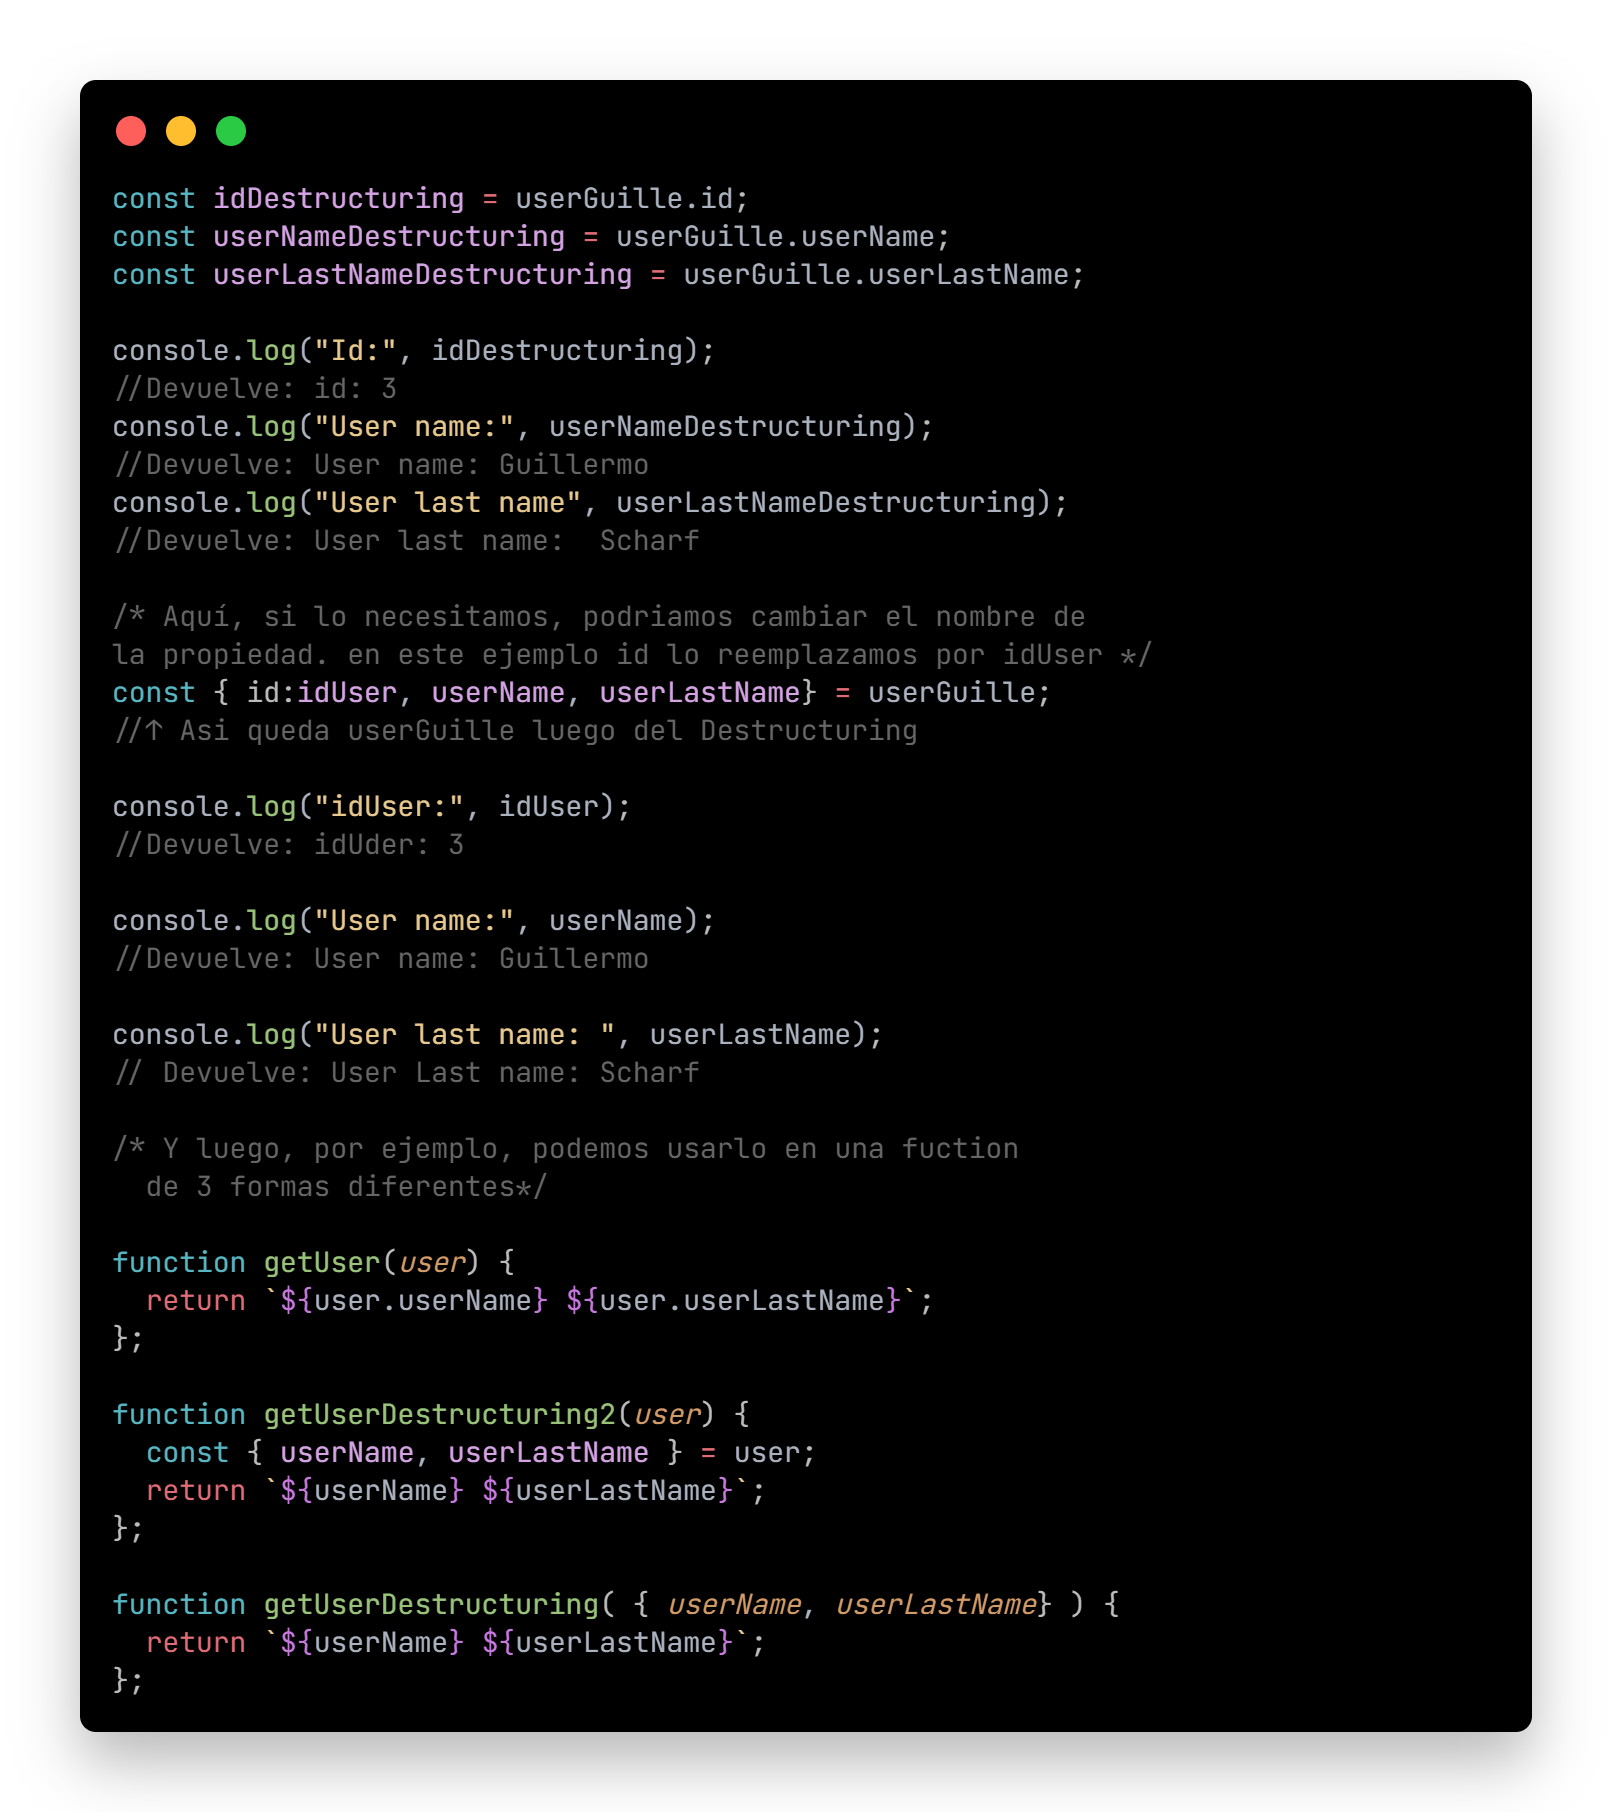
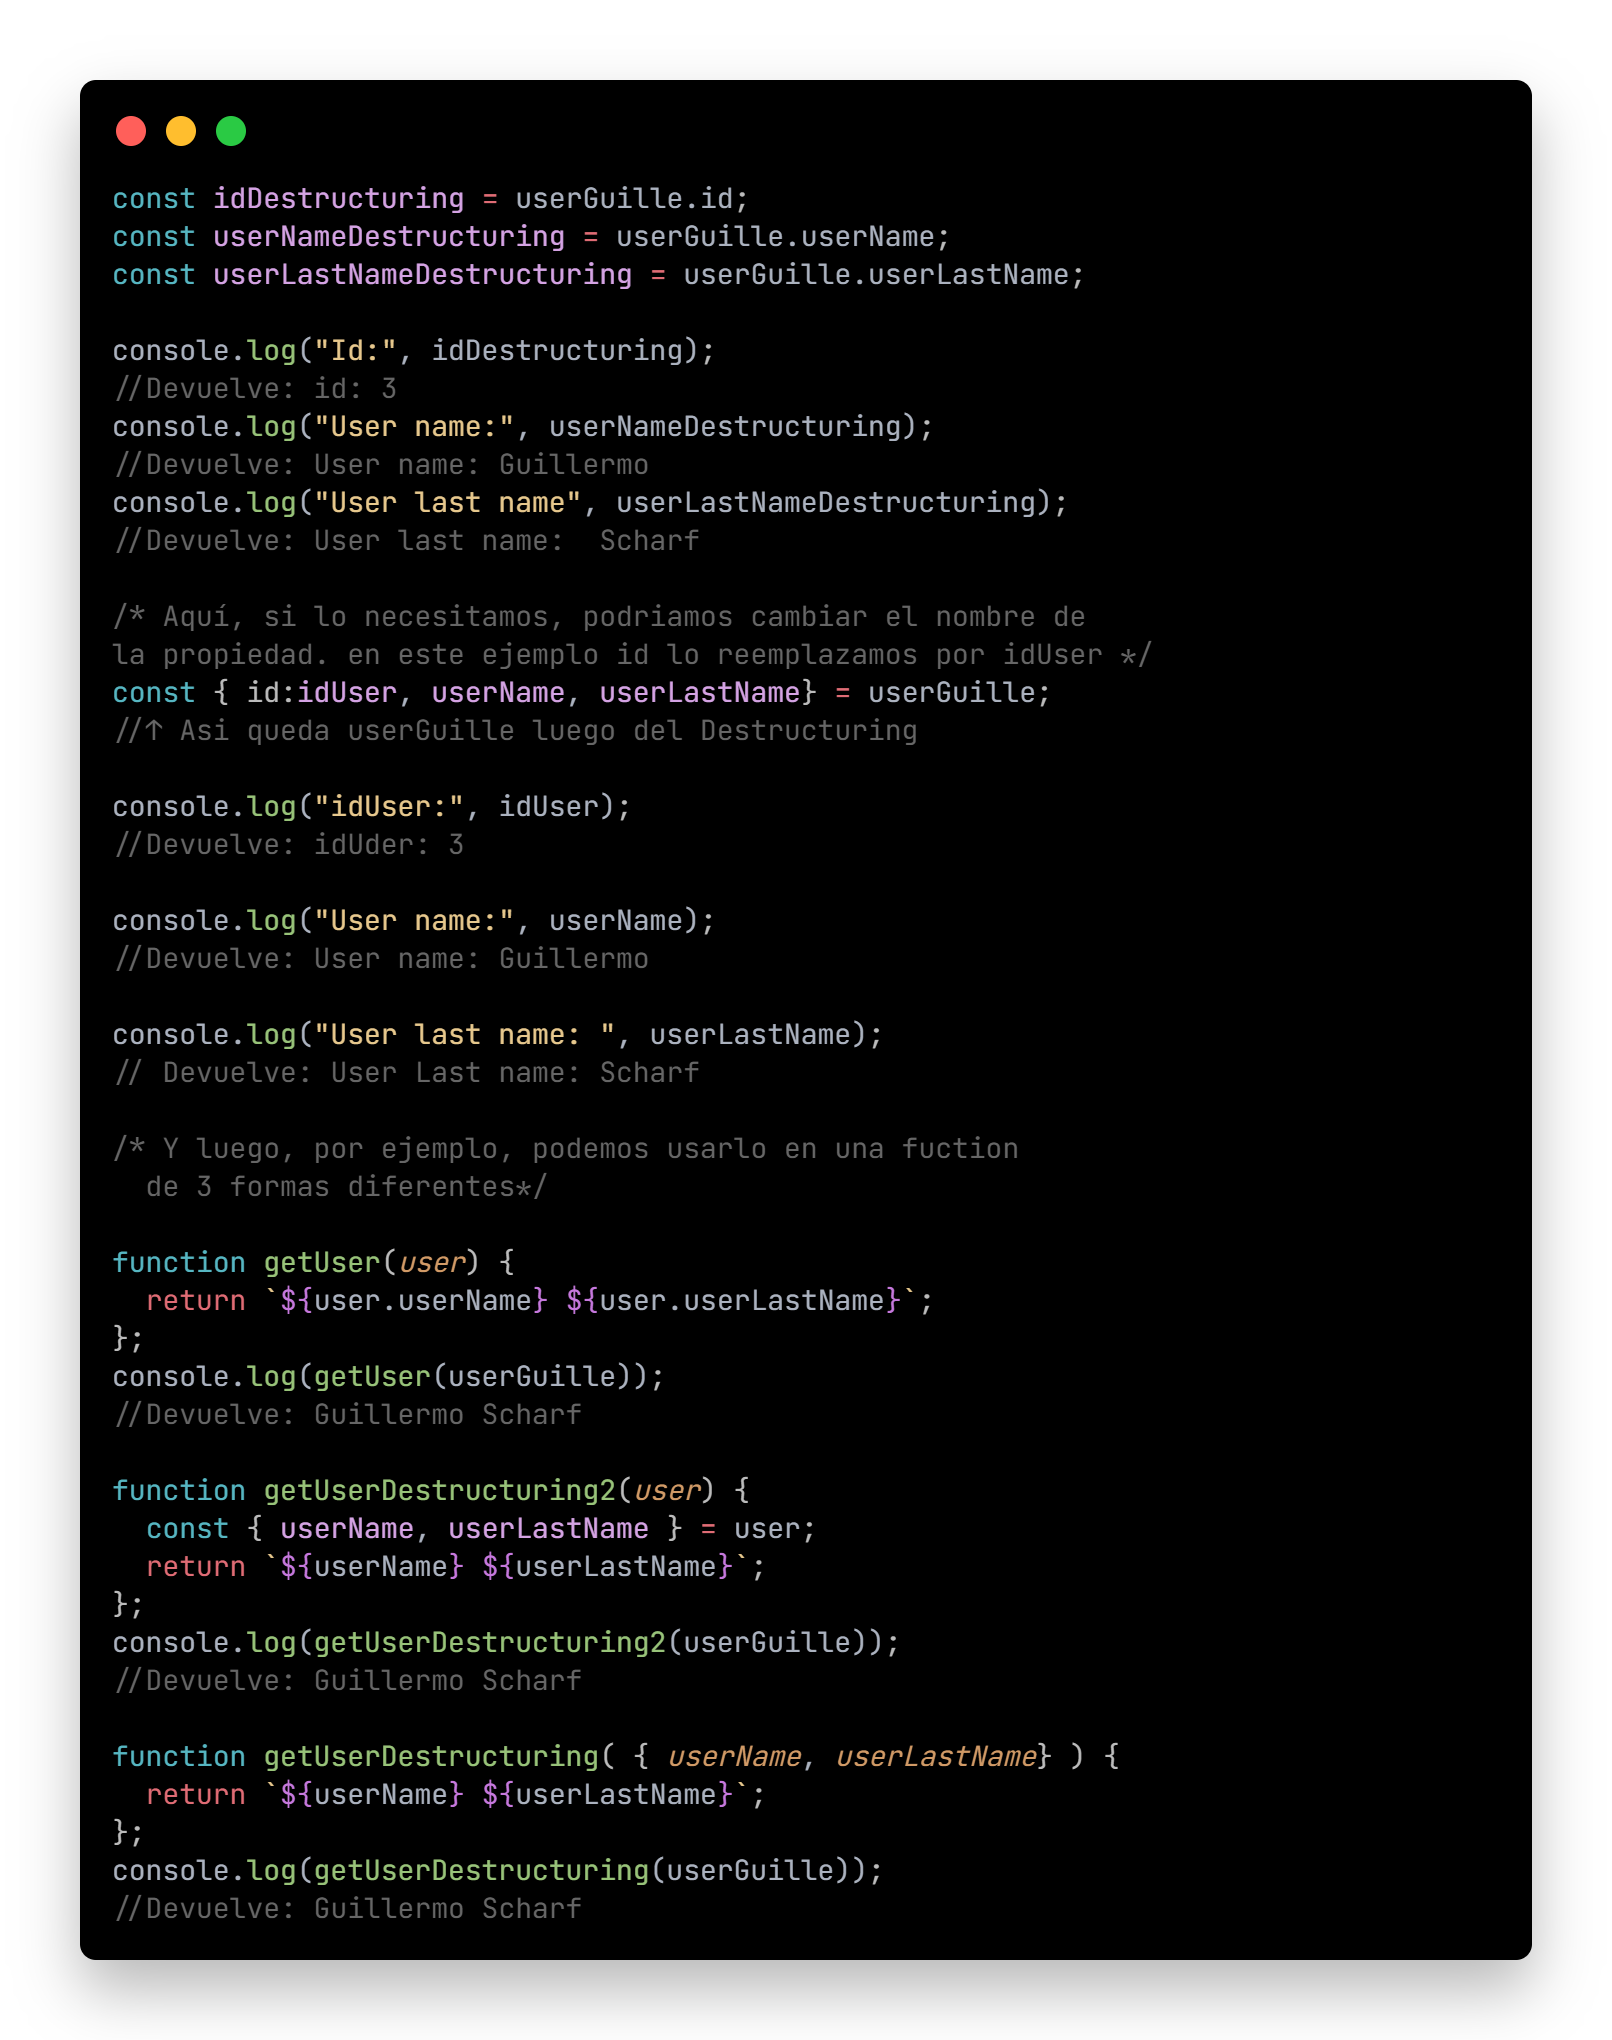
fix: add dates

Changed region(s): [[0.062, 0.0309, 0.9615, 0.9581], [0.5273, 0.8344, 0.6514, 0.8962]]

diff --git a/clase09_fx_metodos2_js/js/ejercicio_funciones2.js b/clase09_fx_metodos2_js/js/ejercicio_funciones2.js
@@ -271,15 +271,21 @@ console.log("User last name: ", userLastName);
 function getUser(user) {
   return `${user.userName} ${user.userLastName}`;
 };
+console.log(getUser(userGuille));
+//Devuelve: Guillermo Scharf
 
 function getUserDestructuring2(user) {
   const { userName, userLastName } = user;
   return `${userName} ${userLastName}`;
 };
+console.log(getUserDestructuring2(userGuille));
+//Devuelve: Guillermo Scharf
 
 function getUserDestructuring( { userName, userLastName} ) {
   return `${userName} ${userLastName}`;
 };
+console.log(getUserDestructuring(userGuille));
+//Devuelve: Guillermo Scharf
 
 /* ******************* */
 
